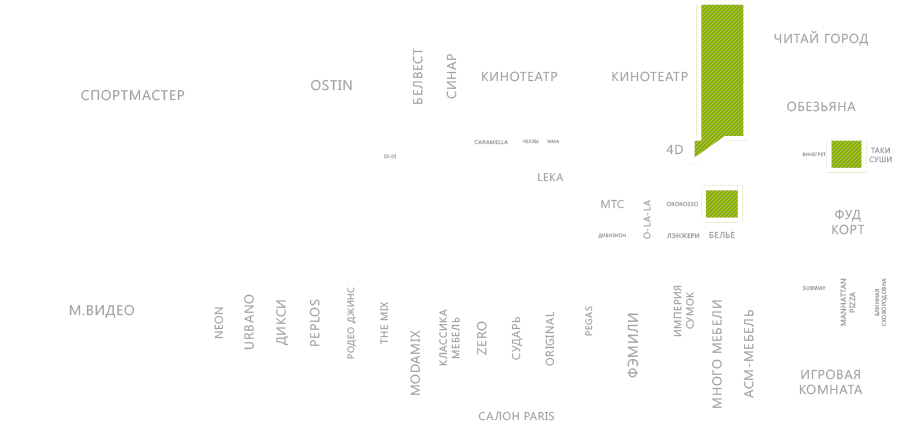
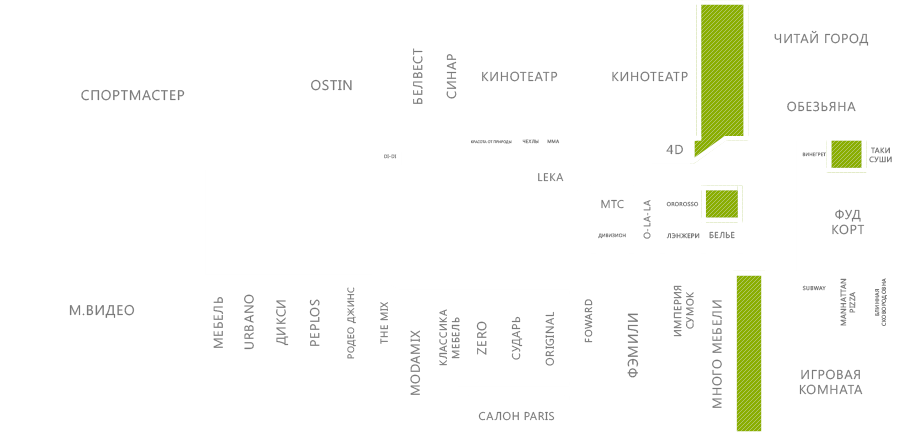
prod update

diff --git a/js/scheme.js b/js/scheme.js
@@ -133,7 +133,7 @@ type: 't3 t11 t9 t13 t12',
 		path: 'M 180 592 L 180 612 L 200 612 L 220 612 L 220 592 L 220 572 L 200 572 L 180 572 L 180 592Z'
 	},
 	area_20: {
-		href: '',
+		href: '/radugakmr/stores/obuv/vestfalika/',
 		title: 'Вестфалика',
 		space: '20',
 		type: 't13',
@@ -646,7 +646,7 @@ var s1_f2 = {
 	},
 	area_50: {
 		href: '',
-		title: 'Вива мебель',
+		title: 'Мебель поволжья',
 		space: '50',
 		type: 't2',
 		path: 'M400,580.5L400,612L431.5,612L463,612L463,580.5L463,549L431.5,549L400,549L400,580.5Z'
@@ -655,7 +655,7 @@ var s1_f2 = {
 		href: '',
 		title: 'Много мебели',
 		space: '51',
-		type: '',
+		type: 't2',
 		path: 'M179,192L179,211L255,211L331,211L331,192L331,173L255,173L179,173L179,192Z'
 	}
 	/*
@@ -687,7 +687,7 @@ var s2_f1 = {
 	area_3: {
 		href: '',
 		title: 'Fixeprice',
-		type: '',
+		type: 't2',
 		space: '3',
 		path: 'M349,29C348.9,27.8,349,25.6,350.8,26C380.3,26,409.7,26,439.1,26C440.3,25.9,442.4,26,442,27.8C442,47.2,442,66.6,442,86C411.3,85.9,380.6,86.1,349.9,85.9C349.7,85.7,349.3,85.2,349.1,85C348.8,66.3,349.1,47.6,349,29Z'
 	},
@@ -914,15 +914,16 @@ var s2_f1 = {
 		space: '36',
 		type: 't1',
 		path: 'M274,469.5L274,524L288.5,524L303,524L303,469.5L303,415L288.5,415L274,415L274,469.5Z'
-
+/*
 	},
 	area_37: {
 		href: '',
-		type: 't2',
-		title: 'Много мебели',
+		type: '',
+		title: '96кв.м',
 		space: '37',
-		path: 'M306,469.5L306,524L314.5,524L323,524L323,469.5L323,415L314.5,415L306,415L306,469.5Z'
-
+		path: 'M306,469.5L306,524L314.5,524L323,524L323,469.5L323,415L314.5,415L306,415L306,469.5Z',
+		tip: true
+*/
 	},
 	area_38: {
 		href: '',
@@ -969,7 +970,8 @@ var s2_f1 = {
 		title: 'Много мебели',
 		type: 't2',
 		space: '43',
-		path: 'M 487 456.5 L 487 466 L 497.5 466 L 508 466 L 508 456.5 L 508 447 L 497.5 447 L 487 447 L 487 456.5Z'
+		path: 'M 487 456.5 L 487 466 L 497.5 466 L 508 466 L 508 456.5 L 508 447 L 497.5 447 L 487 447 L 487 456.5Z',
+		tip: true
 	},
 	area_44: {
 		href: '',
@@ -1009,15 +1011,15 @@ var s2_f1 = {
 		title: 'Incity',
 		space: '48',
 		path: 'M 511 80.5 L 511 135 L 557.5 135 L 604 135 L 604 80.5 L 604 26 L 557.5 26 L 511 26 L 511 80.5Z',
-
+/*
 	},
 	area_49: {
-		href: '/radugarub/stores/odezhda/muzhskaya-i-zhenskaya-odezhda-fun-day/',
-		type: 't9 t11 t12',
-		title: 'Fun day',
+		href: '',
+		type: '',
+		title: '585квм.м',
 		space: '49',
 		path: 'M 607 80.5 L 607 135 L 635.5 135 L 664 135 L 664 122 L 664 109 L 674 109 L 684 109 L 684 95.5 L 684 82 L 694.5 82 L 705 82 L 705 54 L 705 26 L 656 26 L 607 26 L 607 80.5Z',
-
+*/
 	},
 	area_50: {
 		href: '',
@@ -1075,7 +1077,7 @@ var s2_f1 = {
 	area_57: {
 		href: '',
 		title: 'Домашка',
-		type: '',
+		type: 't2',
 		space: '57',
 		path: 'M829,335.8C828.5,334,831.4,333.2,831.9,335C848.3,361.6,865.3,387.7,881.8,414.2C885,418.4,887.3,423.3,890.5,427.6C891.8,429.9,894.1,432,894,434.9C894,464.6,894,494.3,894,524C873.3,524,852.6,524,831.9,524C830.7,524.1,828.6,524,829,522.2C829,460.1,829,397.9,829,335.8Z'
 	},
@@ -1795,7 +1797,7 @@ var s3_f1 = {
 	},
 	area_35: {
 		href: '',
-		title: 'Элемент стиля',
+		title: 'Карат',
 		space: '35',
 		type: 't2',
 		path: 'M181,341.5L181,414L189,414L197,414L197,341.5L197,269L189,269L181,269L181,341.5Z'
@@ -1809,10 +1811,11 @@ var s3_f1 = {
 	},
 	area_37: {
 		href: '',
-		title: 'Золото',
+		title: 'Телефоника',
 		space: '37',
-		type: 't6',
-		path: 'M 284 281.5 L 284 294 L 300 294 L 316 294 L 316 281.5 L 316 269 L 300 269 L 284 269 L 284 281.5Z'
+		type: 't1',
+		path: 'M 284 281.5 L 284 294 L 300 294 L 316 294 L 316 281.5 L 316 269 L 300 269 L 284 269 L 284 281.5Z',
+		tip: true
 	},
 	area_38: {
 		href: '/riviera/stores/elektronika-i-svyaz/evroset/',
@@ -1823,9 +1826,9 @@ var s3_f1 = {
 	},
 	area_39: {
 		href: '',
-		title: 'Банк',
+		title: 'Сумки микс',
 		space: '39',
-		type: 't19',
+		type: 't7',
 		path: 'M 319 308.5 L 319 320 L 336 320 L 353 320 L 353 308.5 L 353 297 L 336 297 L 319 297 L 319 308.5Z'
 	},
 	area_40: {
@@ -1938,13 +1941,13 @@ var s3_f1 = {
 		title: 'TELE2',
 		space: '59',
 		path: 'M867,233.5L867,244L879,244L891,244L891,233.5L891,223L879,223L867,223L867,233.5Z'
-	},
+	},/*
 	area_60: {
 		href: '',
-		title: 'Золото',
+		title: '6кв.м',
 		space: '60',
 		path: 'M894,233.5L894,244L911,244L928,244L928,233.5L928,223L911,223L894,223L894,233.5Z'
-	},
+	},*/
 	area_61: {
 		href: '',
 		title: 'VIP Style',
@@ -1953,7 +1956,7 @@ var s3_f1 = {
 	},
 	area_62: {
 		href: '',
-		title: 'Карат, электро-кухни',
+		title: 'Элемент стиля',
 		space: '62',
 		type: 't2',
 		path: 'M200,341.5L200,414L207.5,414L215,414L215,341.5L215,269L207.5,269L200,269L200,341.5Z'
@@ -2027,9 +2030,9 @@ var s3_f2 = {
 	},
 	area_7: {
 		href: '',
-		title: 'Caramella',
+		title: 'Красота от природы',
 		space: '7',
-		type: 't9',
+		type: 't5',
 		path: 'M498,151.5L498,158L524,158L550,158L550,151.5L550,145L524,145L498,145L498,151.5Z',
 		tip: true
 	},

diff --git a/js/dynamic.js b/js/dynamic.js
@@ -456,6 +456,101 @@ $(document).ready(function() {
 		$('[data-film]').removeClass('active');
 		$(this).addClass('active');
 	}).filter(':first').click();
+	if ( $('.cinema-modal').length > 0 ) {
+ 		$('.cinema-modal > div').append('<span class="close"></span>');
+ 		$('[data-cinema="open"]').bind('click', function(e) {
+ 			e.preventDefault();
+ 			var t = 0;
+ 			if ( $('.enabled').length > 0 ) {
+ 				$('.cinema-modal').css({
+ 					'top': t+'px'
+ 				}).stop(true,true).fadeIn(250);
+ 				$.fn.fullpage.setMouseWheelScrolling(false);
+ 			}
+ 			else {
+ 				var t = $(document).scrollTop();
+ 				$('.cinema-modal').css({
+ 					'top': t+'px'
+ 				}).stop(true,true).fadeIn(250);
+ 			}
+ 			$('.fade').stop(true,true).fadeIn(250);
+ 		});
+ 		$('.fade, .cinema-modal .close').bind('click', function() {
+ 			$('.cinema-modal, .fade').stop(true,true).fadeOut(250);
+ 			if ( $('.enabled').length > 0 ) {
+ 				$.fn.fullpage.setMouseWheelScrolling(true);
+ 			}
+ 		});
+ 		$('.cinema-modal').click(function() {
+ 			$('.cinema-modal, .fade').stop(true,true).fadeOut(250);
+ 			if ( $('.enabled').length > 0 ) {
+ 				$.fn.fullpage.setMouseWheelScrolling(true);
+ 			}
+ 		});
+ 		$('.cinema-modal > div').click(function(event){
+ 			event.stopPropagation();
+ 		});
+ 	}
+ 	 $('.cinema-modal > div > div').each(function() {
+  $(this).find('.schedule .nav ul li').bind('click', function(e) {
+   e.preventDefault();
+	  console.log(123);
+   $(this).parents('.nav').siblings('[data-tab="'+$(this).attr('data-tab-open')+'"]').show().siblings('[data-tab]').hide();
+   $(this).addClass('active').siblings().removeClass();
+  }).filter(':first').click();
+ });
+ $('[data-film-open]').bind('click', function(e) {
+  e.preventDefault();
+  var film = $(this).data('film-open');
+  // Информация о фильме
+	 $('div[data-film-more=1]').hide();
+	 $('div[data-film-more=1] .schedule').html('<div class="nav"></div>');
+  $.ajax({
+  	type : 'post',
+  	url : '../php/ajax_film.php',
+  	data : {
+  		id : film
+  	},
+  	success : function(data){
+		var data = JSON.parse(data);
+			//console.log(data.NAME);
+			$('div[data-film-more=1] h2').html(data.BASE.fields.NAME); // Название
+		    $('div[data-film-more=1] .general .info h3').html('Ограничения: '+data.PROP.RESTRICTIONS.VALUE); // Ограничение
+			$('div[data-film-more=1] li[data-attr=length]').html('<span>Продолжительность фильма:</span> ' + data.PROP.LENGTH.VALUE); // Продолжительность фильма
+			$('div[data-film-more=1] li[data-attr=style]').html('<span>Жанр:</span> ' + data.PROP.GENRE.VALUE); // Жанр
+
+			$('div[data-film-more=1] li[data-attr=to]').html('<span>На экранах до:</span> ' + data.PROP.SCREENSTO.VALUE); // На экранах до
+			$('div[data-film-more=1] li[data-attr=country]').html('<span>Производство:</span> ' + data.PROP.COUNTRY.VALUE); // Страна
+			$('div[data-film-more=1] li[data-attr=starring]').html('<span>В ролях:</span> ' + data.PROP.ROLES.VALUE); // В ролях
+			$('div[data-film-more=1] li[data-attr=producer]').html('<span>Режиссёр:</span> ' + data.PROP.DIRECTOR.VALUE); // Режиссер
+			$('div[data-film-more=1] li[data-attr=writer]').html('<span>Сценарист:</span> ' + data.PROP.SCREENWRITTER.VALUE); // Сценарист
+
+			$('div[data-film-more=1] .pic').html('<img src="'+data.IMG.src+'">'); // Картинка
+			$('div[data-film-more=1] .video').html(data.PROP.TRAILER.VALUE.TEXT); // Видео
+			$('div[data-film-more=1] .description p').html(data.BASE.fields.PREVIEW_TEXT); // Описание
+		//console.log(data.PROP.RESTRICTIONS.VALUE);
+  	} 
+  })
+	 // Сеансы
+	 $.ajax({
+		 type : 'post',
+		 url : '../php/ajax_session.php',
+		 data : {
+			 id : film
+		 },
+		 success : function(data){
+			 var data = JSON.parse(data);
+			 $('div[data-film-more=1] .nav').html(data.tab);
+			 $('div[data-film-more=1] .schedule').append(data.ses);
+			 $('.nav ul li[data-tab-open=0]').addClass('active');
+			 $('div[data-film-more=1] .schedule .tab[data-tab=0]').show();
+			 $('div[data-film-more=1]').show();
+		 }
+	 })
+  //$('[data-film-open]').removeClass('active');
+  //$(this).addClass('active');
+//  $('[data-film-more="'+$(this).attr('data-film-open')+'"]').show().siblings('[data-film-more]').hide();
+ }).filter(':first').click();
 });
 $(window).resize(function() {
 	if ( $('.introduction').length > 0 ) {
@@ -476,3 +571,13 @@ $(window).load(function() {
 		$('.new-panel').delay(1500).fadeIn(250);
 	}
 });
+
+/**/
+function ses_tab(i) {
+	//console.log(i);
+	$('div[data-film-more=1] .tab').hide();
+	$('div[data-film-more=1] .tab[data-tab=' + i + ']').show();
+	$('.nav ul li').removeClass('active');
+	$('.nav ul li[data-tab-open='+i+']').addClass('active');
+	return false;
+}

diff --git a/js/rent.js b/js/rent.js
@@ -31,7 +31,7 @@ var b1_f1 = {
 		space: 'XX,XX кв. м.',
 		path: 'M4,99.5L4,195L18,195L32,195L32,197.5L32,200L98.5,200L165,200L165,108.5L165,17L237.5,17L310,17L310,10.5L310,4L157,4L4,4L4,99.5Z'
 	},
-	
+
 	area_3: {
 		space: 'XX,XX кв. м.',
 		path: 'M32,228L32,240L56,240L80,240L80,228L80,216L56,216L32,216L32,228Z'
@@ -190,7 +190,7 @@ var b1_f1 = {
 /* Торговый центр Радуга (Кемерово), этаж 2 (путь \maps\rent\1\floor2\ ) */
 var b1_f2 = {
 	area_14: {
-		space: '65,60 кв. м.',
+		space: '65,6 кв. м.',
 		path: 'M192,392L192,412L197,417L202,422L214,422L226,422L226,397L226,372L209,372L192,372L192,392Z'
 	},
 	area_24: {
@@ -363,8 +363,8 @@ var b1_f2 = {
 	area_43: {
 		space: 'XX,XX кв. м.',
 		path: 'M168,180L168,197L239,197L310,197L310,180L310,163L239,163L168,163L168,180Z'
-	},
-	*/
+	},*/
+
 }
 
 /* Торговый центр Радуга (Рубцовск), этаж 1 (путь \maps\rent\2\floor1\ ) */
@@ -422,11 +422,11 @@ var b2_f1 = {
 		path: 'M263,369C268,369,273,369,278,369C278,402.7,278,436.3,278,470C273,470,268,470,263,470C263,436.3,263,402.7,263,369Z'
 	},
 	area_118: {
-		space: '? кв. м.',
+		space: '180 кв. м.',
 		path: 'M340,63C356.7,63,373.3,63,390,63C390,77.3,390,91.7,390,106C380,106,370,106,360,106C360,98,360,90,360,82C353.3,82,346.7,82,340,82C340,75.7,340,69.3,340,63Z'
 	},
 	area_119: {
-		space: '? кв. м.',
+		space: '852 кв. м.',
 		path: 'M817,386C843.3,386,869.7,386,896,386C896,414.3,896,442.7,896,471C869.7,471,843.3,471,817,471C817,442.7,817,414.3,817,386Z'
 	},
 	/*
@@ -1073,11 +1073,11 @@ var b3_f1 = {
 	area_54: {
 		space: 'XX,XX кв. м.',
 		path: 'M813,209C820.3,209,827.7,209,835,209C835,215.7,835,222.3,835,229C827.7,229,820.3,229,813,229C813,222.3,813,215.7,813,209Z'
-	},
+	},*/
 	area_55: {
-		space: 'XX,XX кв. м.',
+		space: '6 кв. м.',
 		path: 'M838,209C848.7,209,859.3,209,870,209C870,215.7,870,222.3,870,229C859.3,229,848.7,229,838,229C838,222.3,838,215.7,838,209Z'
-	},
+	},/*
 	area_56: {
 		space: 'XX,XX кв. м.',
 		path: 'M137,252C147,252,157,252,167,252C167,311.7,167,371.3,167,431C157,431,147,431,137,431C137,371.3,137,311.7,137,252Z'
@@ -1263,11 +1263,11 @@ var b3_f2 = {
 	area_43: {
 		space: 'XX,XX кв. м.',
 		path: 'M701,353.5L701,432L717,432L733,432L733,353.5L733,275L717,275L701,275L701,353.5Z'
-	},
+	},*/
 	area_44: {
-		space: 'XX,XX кв. м.',
+		space: '175 кв. м.',
 		path: 'M736,353.5L736,432L749,432L762,432L762,353.5L762,275L749,275L736,275L736,353.5Z'
-	},
+	},/*
 	area_45: {
 		space: 'XX,XX кв. м.',
 		path: 'M765,353L765,431L830.5,431L896,431L896,382L896,333L862,333L828,333L828,319L828,305L813,305L798,305L798,290L798,275L781.5,275L765,275L765,353Z'
@@ -1568,7 +1568,7 @@ var b4_f3 = {
 /* Торговый центр ЦУМ (Осинники), 3 этаж (путь \maps\rent\4\floor4\ ) */
 var b4_f4 = {
 	area_22: {
-		space: 'XX,XX кв. м.',
+		space: '15 кв. м.',
 		path: 'M205,408.5L205,418L222.5,418L240,418L240,408.5L240,399L222.5,399L205,399L205,408.5Z'
 	},
 	/*
